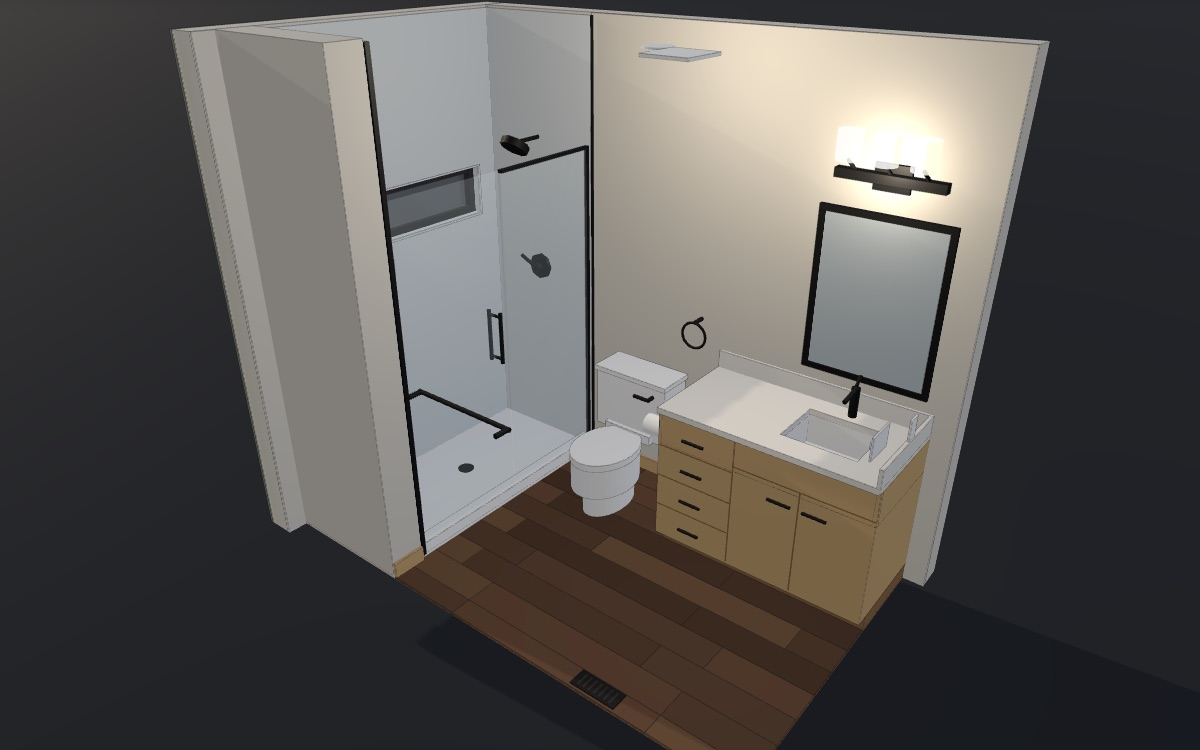
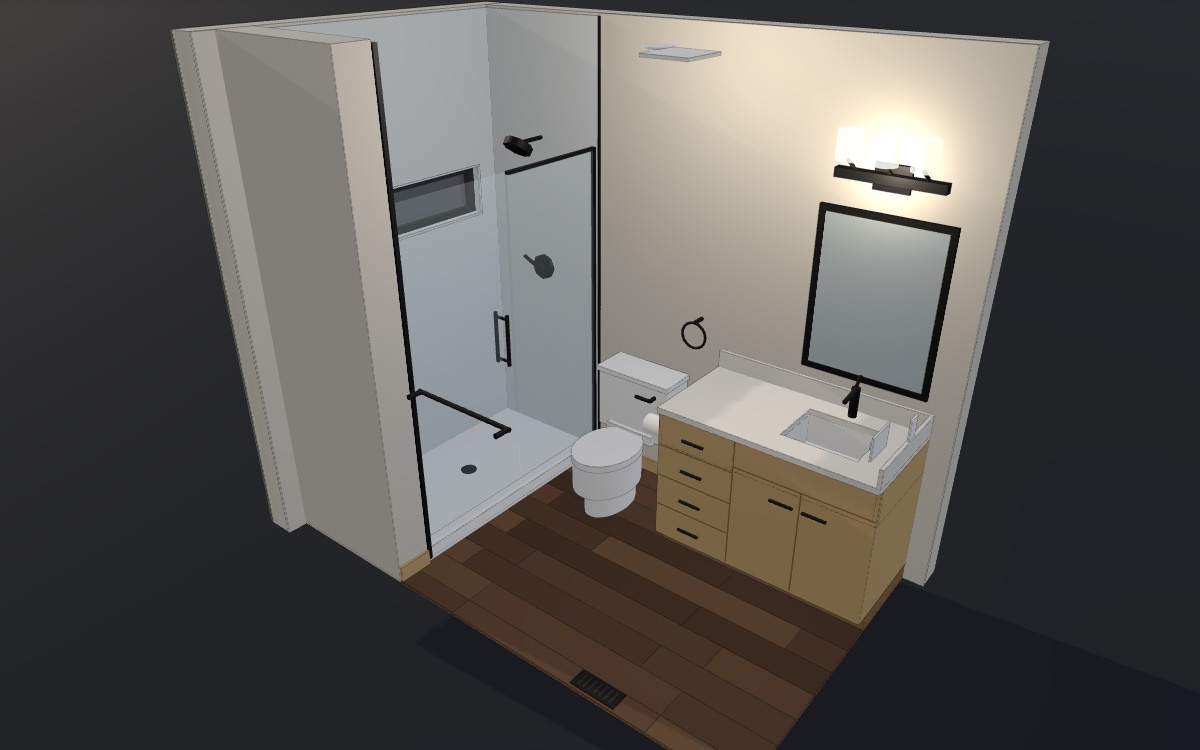
feat: guest bath -- 32in glass-to-tile, sink-position and stub-wall options

diff --git a/guest-bath.html b/guest-bath.html
@@ -65,9 +65,11 @@
     + basis-of-design fixture schedule. The lower-floor <b>GUEST BATH</b> on the east (gridline A) wall between the guest-room-1
     closets (south) and the kitchen (north), entered from the hall: 5'-7 3/4" x 9'-8 1/2" clear under a flat 9'-0" ceiling. The
     plumbing wall is centered on gridline 2; a 60 1/2" alcove is formed by an 8 1/2" chase at the kitchen end, with a 4'-0" x 1'-0"
-    window (C) at 5'-0" in its east wall. <b>Owner changes 2026-09-10:</b> a tiled <b>shower with a frameless glass door</b> (60" x 32" pan,
+    window (C) at 5'-0" in its east wall. <b>Owner changes 2026-09-10:</b> a tiled <b>shower with a frameless glass door</b> (60" x 34" pan, <b>32" from the glass to the back tile</b>,
     tile to the ceiling, like the upstairs bath) replaces A02's tub; the single-sink vanity in the hall-wall corner grows to <b>48"</b>
-    (A02: 42 1/2"); every fixture and accessory is <b>matte black</b>. The toilet is re-centered in what is left -- 18 1/2" to the vanity
+    (A02: 42 1/2"); every fixture and accessory is <b>matte black</b>. Two radios compare owner options (2026-09-10): <b>Sink</b> over the 30"
+    base as drawn or centered on the 48"; <b>End wall</b> with A02's 8 1/2" chase (it only existed to fit a 60" insert) or none, which makes a
+    full-width 66 1/2" tiled shower with custom glass. The toilet is re-centered in what is left -- 18" to the vanity
     and 18" to the glass (code minimum 15", 18" recommended); 40" in front of it, 43" between the vanity and the kitchen wall. Door 6
     (30", LH in-swing) is hinged at the kitchen wall. Walls and openings follow the A02 dim chains; device and light positions are scaled
     from E01 / M01 (&plusmn;1", M01 &plusmn;3"). <b>Orange = not on record or the sheets disagree:</b> S3.2 puts the hall-wall header (a door)
@@ -102,7 +104,7 @@
       <label><input type="checkbox" data-layer="wallW"> Hall wall + door</label>
       <label><input type="checkbox" data-layer="ceiling"> Ceiling</label>
       <label><input type="checkbox" data-layer="floor" checked> LVP floor</label>
-      <label><input type="checkbox" data-layer="tub" checked> Shower + chase</label>
+      <label><input type="checkbox" data-layer="tub" checked> Shower</label>
       <label><input type="checkbox" data-layer="glass" checked> Shower glass</label>
       <label><input type="checkbox" data-layer="tile" checked> Shower tile</label>
       <label><input type="checkbox" data-layer="vanity" checked> Vanity + mirror</label>
@@ -113,6 +115,16 @@
       <label><input type="checkbox" data-layer="label"> Labels</label>
       <label><input type="checkbox" data-layer="dim"> Dimensions</label>
       <label><input type="checkbox" data-layer="caption"> Caption</label>
+    </div>
+    <div class="row fold" id="variants">
+      <span class="lbl">Sink</span>
+      <label><input type="radio" name="sink" data-layer="sinkBase" checked> Over the 30" sink base, 15" off the hall wall (as drawn)</label>
+      <label><input type="radio" name="sink" data-layer="sinkCenter"> Centered on the 48" vanity (owner option)</label>
+    </div>
+    <div class="row fold" id="variants2">
+      <span class="lbl">End wall</span>
+      <label><input type="radio" name="chase" data-layer="chaseOn" checked> 8 1/2" chase per A02, sized for a 60" insert</label>
+      <label><input type="radio" name="chase" data-layer="chaseOff"> No chase: full-width tiled shower, custom glass (owner option)</label>
     </div>
     <div class="row" id="views">
       <span class="lbl">View</span>
@@ -1572,8 +1584,8 @@ const D = {
   HW_OUT: 29.0, HW_S1: 29.5, HW_S2: 33.0, HW_IN: 33.5,
   // kitchen partition (north): bath gyp / studs / kitchen gyp
   KP_IN: 71.0, KP_S1: 71.5, KP_S2: 75.0, KP_OUT: 75.5,
-  // chase at the alcove's north end: framing face (chain 255.75 - 192.5) and its return plane (moved from A02's 120 to 118.5 for a 32" pan)
-  CH_X1: 63.25, CH_Z: 118.5,
+  // chase at the alcove's north end: framing face (chain 255.75 - 192.5) and its return plane (moved from A02's 120 to 116.5 for a 34" pan)
+  CH_X1: 63.25, CH_Z: 116.5,
   // east wall (gridline A): gyp / studs / sheathing / siding
   EW_IN: 150.0, EW_S1: 150.5, EW_S2: 156.0, SHEATH: 156.5, SIDING: 157.25,
   // levels
@@ -1581,16 +1593,17 @@ const D = {
   // openings (door 6 per the A02 chain; window C RO 4'-0 1/2" x 1'-0 1/2", A04's 3'-0 1/2" rough width flagged)
   DOOR_X1: 39.0, DOOR_X2: 69.5, DOOR_HEAD: 84.5, DOOR_W: 30, DOOR_T: 1.375,
   WIN_X1: 8.75, WIN_X2: 57.25, WIN_SILL: 59.75, WIN_HEAD: 72.25,
-  // shower (owner 2026-09-10, replaces the A02 tub): 60" x 32" alcove pan in the 60 1/2" alcove, frameless glass on the threshold,
-  // shower-only trim on the plumbing wall centered on the pan
-  SH_X1: 3.0, SH_X2: 63.0, SH_Z1: 118.5, SH_Z2: 150.5, PAN_T: 1.5, CURB_W: 3.0, GLASS_Z: 119.5, GLASS_H: 80, DOOR_G_X: 32.375,
-  TRIM_Z: 134.5, VALVE_Y: 48, ARM_Y: 80,
+  // shower (owner 2026-09-10, replaces the A02 tub): 60" x 34" alcove pan in the 60 1/2" alcove, frameless glass on the threshold
+  // 32" from the back tile (owner: 32", not 30"), shower-only trim on the plumbing wall centered on the pan
+  SH_X1: 3.0, SH_X2: 63.0, SH_Z1: 116.5, SH_Z2: 150.5, PAN_T: 1.5, CURB_W: 3.0, GLASS_Z: 117.5, GLASS_H: 80,
+  DOOR_G_X: 32.375, DOOR_G_X2: 40.375,   // glass door / fixed-panel split: with the chase (door hinged on the chase) / without (door hinged on the panel)
+  TRIM_Z: 133.5, VALVE_Y: 48, ARM_Y: 80,
   // vanity in the plumbing-wall / hall-wall corner: 24 3/4" deep counter, 48" long (owner 2026-09-10; A02 drew 42 1/2"), faces north
   VAN_X1: 3.25, VAN_X2: 27.0, CTR_X2: 28.0, VAN_Z1: 33.5, VAN_Z2: 81.5, CTR_Y: 34.75, CTR_T: 1.25,
   SINK_XC: 15.5, SINK_ZC: 48.5, SINK_L: 13, SINK_W: 16, FAUCET_X: 6.5,
-  MIR_Z1: 36.5, MIR_Z2: 60.5, MIR_Y1: 44, MIR_Y2: 76, BAR_ZC: 48.5, BAR_L: 20.9,
-  // toilet centerline: re-centered between the 48" vanity and the shower glass (18 1/2" / 18"); A02 drew it at 104
-  WC_Z: 100,
+  MIR_HW: 12, MIR_Y1: 44, MIR_Y2: 76, BAR_L: 20.9,   // 24" x 32" mirror and the Bellevue bar follow the sink (Sink radio: z 48.5 over the base, 57.5 centered)
+  // toilet centerline: re-centered between the 48" vanity end (81.5) and the shower glass (117.5) -- 18" each side; A02 drew it at 104
+  WC_Z: 99.5,
   // devices: E01 can + GFCI + 3-gang, M01 fan + floor register
   CAN: [37.2, 77.4], FAN: [42.0, 70.0], SWITCH_X: 32.5, GFCI_X: 15.5, REG: [66.5, 70.5, 60, 70],
   // finishes + framing rules
@@ -1799,6 +1812,9 @@ function prismXZ(pts, y1, y2, mat, layer, holes = [], edges = true) {
   if (edges) addEdges(m, g, mat.transparent);
   return reg(m, layer);
 }
+// Variant helpers: a part tagged with a radio's data-layer is shown only while that radio is selected (main-bath pattern).
+const tagV = (o, v) => { o.userData.variant = v; return o; };
+const tagNew = (v, fn) => { const n = parts.length; fn(); for (let i = n; i < parts.length; i++) tagV(parts[i], v); };
 // Interior lighting: sun low in the east so it comes in through window C; a little more ambient than the template.
 sun.position.set(60, 240, 760);
 scene.add(new THREE.AmbientLight(0xffffff, 0.35));
@@ -1838,7 +1854,7 @@ const winHole = rect(D.WIN_X1, D.WIN_SILL, D.WIN_X2, D.WIN_HEAD);
 
 // ---- kitchen partition (north) and the tub chase at the alcove's north end ------------------------------------------------
 box(D.KP_IN, D.KP_OUT, 0, TOP, D.HW_OUT, D.EW_S1, M.gyp, 'wallN');
-box(D.CH_X1, D.KP_IN, 0, TOP, D.CH_Z, D.EW_S1, M.gyp, 'tub');                     // chase block: 8 1/4" framing + gyp return at the pan's front edge
+tagNew('chaseOn', () => box(D.CH_X1, D.KP_IN, 0, TOP, D.CH_Z, D.EW_S1, M.gyp, 'tub'));   // chase block: 8 1/4" framing + gyp return at the pan's front edge (End wall radio)
 
 // ---- east wall (gridline A) with window C: 4'-0" x 1'-0" at 5'-0", tiled returns inside the surround -----------------------
 {
@@ -1886,85 +1902,107 @@ box(D.PW_IN, D.KP_IN, D.CEIL, D.CEIL + D.GYP_T, D.HW_IN, D.EW_IN, M.gyp, 'ceilin
   box(D.PW_IN, D.PW_IN + t, y1, y2, D.VAN_Z2, D.CH_Z, M.alder, 'wallS');                       // plumbing wall, vanity end to the tub
   box(D.CTR_X2, D.DOOR_X1 - 2.5, y1, y2, D.HW_IN, D.HW_IN + t, M.alder, 'wallW');               // hall wall, counter to the door casing
   box(D.KP_IN - t, D.KP_IN, y1, y2, D.HW_IN, D.CH_Z, M.alder, 'wallN');                        // kitchen wall up to the chase
-  box(D.CH_X1, D.KP_IN, y1, y2, D.CH_Z - t, D.CH_Z, M.alder, 'tub');                          // chase return
+  tagNew('chaseOn', () => box(D.CH_X1, D.KP_IN, y1, y2, D.CH_Z - t, D.CH_Z, M.alder, 'tub'));   // chase return
 }
 
 // ---- shower (owner 2026-09-10: tiled shower with a glass door instead of the A02 tub, like the upstairs bath) -----------------
-//      60" x 32" alcove pan, tile pan to ceiling on three walls, frameless glass: fixed panel at the valve end, 30" door hinged on the chase
+//      End wall radio: A02's 8 1/2" chase kept (sized for a 60" insert: 60 x 32 pan, door hinged on the chase) or no chase (owner
+//      option: full-width tiled floor + curb, custom frameless glass wall to wall, door hinged on the fixed panel)
 {
-  const L = 'tub', x1 = D.SH_X1, x2 = D.SH_X2, z1 = D.SH_Z1, z2 = D.SH_Z2, tt = D.TILE_T;
-  box(x1, x2, 0, D.PAN_T, z1, z2, M.white, L);                                          // pan (model not chosen; 60 x 32 alcove base)
-  box(x1, x2, 0, 4, z1, z1 + D.CURB_W, M.white, L);                                     // threshold along the glass line
-  cyl((x1 + x2) / 2, (z1 + D.CURB_W + z2) / 2, D.PAN_T, D.PAN_T + 0.2, 2, M.black, L);   // drain
+  const L = 'tub', T = 'tile', G = 'glass', tt = D.TILE_T, z1 = D.SH_Z1, z2 = D.SH_Z2, ez = D.EW_S1 - tt, yb = D.PAN_T;
+  const xf = D.PW_N + tt, gz = D.GLASS_Z, gh = D.GLASS_H, zc = D.TRIM_Z;
   // shower-only trim on the plumbing-wall tile face, centered on the pan (the BoD UT2313EP is a tub/shower kit -- superseded)
-  const xf = D.PW_N + tt, zc = D.TRIM_Z;
   bar(V(xf, D.VALVE_Y, zc), V(xf + 1.0, D.VALVE_Y, zc), 3.2, M.black, L);              // escutcheon
   bar(V(xf + 1.0, D.VALVE_Y, zc), V(xf + 2.2, D.VALVE_Y, zc), 0.9, M.black, L);
   bar(V(xf + 2.2, D.VALVE_Y, zc), V(xf + 2.6, D.VALVE_Y + 2.5, zc + 4.5), 0.45, M.black, L);   // lever
   bar(V(xf, D.ARM_Y, zc), V(xf + 7.5, D.ARM_Y, zc), 0.5, M.black, L);                  // shower arm
   bar(V(xf + 7.5, D.ARM_Y, zc), V(xf + 8.6, D.ARM_Y - 1.4, zc), 3.4, M.black, L);      // head
-  // 0931 tile, three alcove walls, pan lip to the ceiling, black edge trim on the leading edges
-  const T = 'tile', ez = D.EW_S1 - tt, yb = D.PAN_T;
-  box(D.PW_N, D.PW_N + tt, yb, D.CEIL, z1, ez, M.tile, T);                              // plumbing-wall end
-  box(D.CH_X1 - tt, D.CH_X1, yb, D.CEIL, z1, ez, M.tile, T);                            // chase end
-  prism(rect(D.PW_N, yb, D.CH_X1, D.CEIL), ez, D.EW_S1, M.tile, T, [winHole]);        // east wall, around window C
-  box(D.PW_N, D.PW_N + tt + 0.1, yb, D.CEIL, z1 - 0.5, z1, M.black, T, false);         // edge trim
-  box(D.CH_X1 - tt - 0.1, D.CH_X1, yb, D.CEIL, z1 - 0.5, z1, M.black, T, false);
-  // frameless 3/8" glass on the threshold: fixed panel from the valve wall to x = 32 3/8", door hinged on the chase, matte black hardware
-  const G = 'glass', gz = D.GLASS_Z, gx1 = xf + 0.6, gs = D.DOOR_G_X, gx2 = D.CH_X1 - tt - 0.4, gh = D.GLASS_H;
-  box(gx1, gs - 0.3, 4, gh, gz - 0.19, gz + 0.19, M.glass, G, false);                   // fixed panel
-  box(gs + 0.3, gx2, 4, gh, gz - 0.19, gz + 0.19, M.glass, G, false);                   // door, drawn closed (swings out, toward the room)
-  box(xf, xf + 0.6, 4, gh, gz - 0.5, gz + 0.5, M.black, G);                             // wall channel at the valve wall
-  box(gx1, gs - 0.3, gh - 0.6, gh, gz - 0.5, gz + 0.5, M.black, G);                     // header bar on the fixed panel
-  for (const y of [14, 66]) box(gx2, D.CH_X1 - tt, y, y + 3.5, gz - 1.1, gz + 1.1, M.black, G);   // hinges on the chase
-  for (const sz of [-1, 1]) {                                                            // pull, both faces, at the door's free edge
-    bar(V(gs + 3.5, 38, gz + sz * 1.7), V(gs + 3.5, 50, gz + sz * 1.7), 0.45, M.black, G);
-    for (const y of [39, 49]) bar(V(gs + 3.5, y, gz), V(gs + 3.5, y, gz + sz * 1.7), 0.35, M.black, G);
-  }
+  box(D.PW_N, D.PW_N + tt, yb, D.CEIL, z1, ez, M.tile, T);                              // 0931 tile: plumbing-wall end, pan to ceiling
+  box(D.PW_N, D.PW_N + tt + 0.1, yb, D.CEIL, z1 - 0.5, z1, M.black, T, false);         // black edge trim
+  box(xf, xf + 0.6, 4, gh, gz - 0.5, gz + 0.5, M.black, G);                             // glass wall channel at the valve wall
+  const pull = xp => { for (const sz of [-1, 1]) { bar(V(xp, 38, gz + sz * 1.7), V(xp, 50, gz + sz * 1.7), 0.45, M.black, G); for (const y of [39, 49]) bar(V(xp, y, gz), V(xp, y, gz + sz * 1.7), 0.35, M.black, G); } };
+  const panel = (ga, gb) => { box(ga, gb, 4, gh, gz - 0.19, gz + 0.19, M.glass, G, false); box(ga, gb, gh - 0.6, gh, gz - 0.5, gz + 0.5, M.black, G); };   // fixed panel + header bar
+  tagNew('chaseOn', () => {                                                              // A02 chase: 60 x 32 alcove pan, door hinged on the chase
+    const x1 = D.SH_X1, x2 = D.SH_X2, xe = D.CH_X1, gs = D.DOOR_G_X, gx2 = xe - tt - 0.4;
+    box(x1, x2, 0, yb, z1, z2, M.white, L);                                             // pan (model not chosen; 60 x 32 alcove base)
+    box(x1, x2, 0, 4, z1, z1 + D.CURB_W, M.white, L);                                   // threshold along the glass line
+    cyl((x1 + x2) / 2, (z1 + D.CURB_W + z2) / 2, yb, yb + 0.2, 2, M.black, L);         // drain
+    box(xe - tt, xe, yb, D.CEIL, z1, ez, M.tile, T);                                    // chase-end tile
+    prism(rect(D.PW_N, yb, xe, D.CEIL), ez, D.EW_S1, M.tile, T, [winHole]);            // east wall tile around window C
+    box(xe - tt - 0.1, xe, yb, D.CEIL, z1 - 0.5, z1, M.black, T, false);
+    panel(xf + 0.6, gs - 0.3);
+    box(gs + 0.3, gx2, 4, gh, gz - 0.19, gz + 0.19, M.glass, G, false);                 // 30" door, drawn closed, swings out
+    for (const y of [14, 66]) box(gx2, xe - tt, y, y + 3.5, gz - 1.1, gz + 1.1, M.black, G);   // wall hinges on the chase
+    pull(gs + 3.5);
+  });
+  tagNew('chaseOff', () => {                                                             // no chase: tiled floor + curb wall to wall, door hinged on the panel
+    const x1 = xf, x2 = D.KP_IN - tt, gs = D.DOOR_G_X2, gx2 = x2 - 0.4;
+    box(x1, x2, 0, yb, z1, z2, M.tile, L);                                              // tiled floor (mud-set, sloped to the drain in reality)
+    box(x1, x2, 0, 4.5, z1, z1 + 4, M.tile, L);                                         // tiled 4" curb
+    cyl((x1 + x2) / 2, (z1 + 4 + z2) / 2, yb, yb + 0.2, 2, M.black, L);                // drain
+    box(D.KP_IN - tt, D.KP_IN, yb, D.CEIL, z1, ez, M.tile, T);                          // kitchen-wall end tile
+    prism(rect(D.PW_N, yb, D.KP_IN, D.CEIL), ez, D.EW_S1, M.tile, T, [winHole]);       // east wall tile, full width
+    box(D.KP_IN - tt - 0.1, D.KP_IN, yb, D.CEIL, z1 - 0.5, z1, M.black, T, false);
+    panel(xf + 0.6, gs - 0.3);
+    box(gs + 0.3, gx2, 4, gh, gz - 0.19, gz + 0.19, M.glass, G, false);                 // 29 1/2" door, free edge at the kitchen wall
+    for (const y of [14, 66]) box(gs - 1.6, gs + 1.6, y, y + 3.5, gz - 1.1, gz + 1.1, M.black, G);   // glass-to-glass hinges
+    box(gx2, x2, 4, gh, gz - 0.5, gz + 0.5, M.black, G);                                // strike channel at the kitchen wall
+    pull(gx2 - 3.5);
+  });
 }
 
-// ---- vanity: single sink in the plumbing-wall / hall-wall corner, 48" x 24 3/4" (owner 2026-09-10; A02 42 1/2"), faces north; alder (BoD: TBD), quartz (assumed)
+// ---- vanity: single sink in the plumbing-wall / hall-wall corner, 48" x 24 3/4" (owner 2026-09-10; A02 42 1/2"), faces north -------
+//      Sink radio: over the 30" sink base (as drawn: 30" doors + 18" drawers) or centered on the 48" (12" drawers | 24" doors | 12" drawers);
+//      the mirror, Bellevue bar and faucet follow the sink. Alder (BoD: TBD) and quartz (assumed).
 {
   const L = 'vanity', x1 = D.VAN_X1, x2 = D.VAN_X2, z1 = D.VAN_Z1, z2 = D.VAN_Z2, cy = D.CTR_Y;
   box(x1, x2 - 3, 0, 4, z1, z2, M.alderDk, L);                                        // toe kick, recessed 3"
   box(x1, x2, 4, cy - 7.5, z1, z2, M.alder, L);                                       // carcass below the basin
   box(x2 - 0.75, x2, cy - 7.5, cy, z1, z2, M.alder, L);                               // front face
   for (const z of [z1, z2 - 0.75]) box(x1, x2, cy - 7.5, cy, z, z + 0.75, M.alder, L);   // end panels
-  box(x1, x2, cy - 7.5, cy, z1 + 30, z2, M.alder, L);                                 // drawer bank, solid
-  const gap = (ya, yb, za, zb) => box(x2 - 0.02, x2 + 0.06, ya, yb, za, zb, M.alderDk, L, false);
-  gap(4.5, cy - 0.5, z1 + 29.85, z1 + 30.15);                                         // 30" sink base | 18" drawer bank
-  gap(4.5, cy - 6.5, z1 + 15.1, z1 + 15.4);                                           // door pair split
-  gap(cy - 6.65, cy - 6.35, z1, z1 + 30);                                             // false front over the sink
-  for (const y of [11.75, 19.25, 26.75]) gap(y - 0.15, y + 0.15, z1 + 30.15, z2);    // four drawers
-  for (const zc of [z1 + 11.5, z1 + 19]) bar(V(x2 + 1.1, cy - 10, zc - 2.5), V(x2 + 1.1, cy - 10, zc + 2.5), 0.35, M.black, L);   // door pulls
-  const zm = (z1 + 30.15 + z2) / 2;
-  for (const y of [8.1, 15.5, 23, 30.4]) bar(V(x2 + 1.1, y, zm - 2.5), V(x2 + 1.1, y, zm + 2.5), 0.35, M.black, L);              // drawer pulls
-  const sx1 = D.SINK_XC - D.SINK_L / 2, sx2 = D.SINK_XC + D.SINK_L / 2, sz1 = D.SINK_ZC - D.SINK_W / 2, sz2 = D.SINK_ZC + D.SINK_W / 2;
-  prismXZ(rect(x1, z1, D.CTR_X2, z2), cy, cy + D.CTR_T, M.counter, L, [rect(sx1, sz1, sx2, sz2)]);   // counter with the sink cut-out
   box(x1, x1 + 0.75, cy + D.CTR_T, cy + D.CTR_T + 4, z1, z2, M.counter, L);          // 4" backsplash on the plumbing wall
   box(x1, D.CTR_X2, cy + D.CTR_T, cy + D.CTR_T + 4, z1, z1 + 0.75, M.counter, L);    // ... and on the hall-wall end
-  const yb = cy - 6.5;                                                                // undermount basin, 13" x 16" x 6 1/2" (size assumed)
-  box(sx1 - 0.6, sx1, yb, cy, sz1 - 0.6, sz2 + 0.6, M.white, L); box(sx2, sx2 + 0.6, yb, cy, sz1 - 0.6, sz2 + 0.6, M.white, L);
-  box(sx1, sx2, yb, cy, sz1 - 0.6, sz1, M.white, L); box(sx1, sx2, yb, cy, sz2, sz2 + 0.6, M.white, L);
-  box(sx1 - 0.6, sx2 + 0.6, yb - 0.6, yb, sz1 - 0.6, sz2 + 0.6, M.white, L);
-  cyl(D.SINK_XC, D.SINK_ZC, yb, yb + 0.15, 1.2, M.black, L);
-  const ft = cy + D.CTR_T, fx = D.FAUCET_X, fz = D.SINK_ZC;                           // Moen 6402, matte black, spout toward the basin
-  cyl(fx, fz, ft, ft + 6.5, 0.9, M.black, L);
-  bar(V(fx, ft + 6.2, fz), V(fx + 5.2, ft + 5.4, fz), 0.5, M.black, L);
-  bar(V(fx, ft + 6.9, fz), V(fx - 1.6, ft + 8.6, fz), 0.35, M.black, L);
-  box(x1 + 0.05, x1 + 0.75, D.MIR_Y1, D.MIR_Y2, D.MIR_Z1, D.MIR_Z2, M.mirror, L, false);   // 24" x 32" mirror (size assumed)
-  const f = 1.25;
-  box(x1, x1 + 1.0, D.MIR_Y1 - f, D.MIR_Y1, D.MIR_Z1 - f, D.MIR_Z2 + f, M.black, L); box(x1, x1 + 1.0, D.MIR_Y2, D.MIR_Y2 + f, D.MIR_Z1 - f, D.MIR_Z2 + f, M.black, L);
-  box(x1, x1 + 1.0, D.MIR_Y1, D.MIR_Y2, D.MIR_Z1 - f, D.MIR_Z1, M.black, L); box(x1, x1 + 1.0, D.MIR_Y1, D.MIR_Y2, D.MIR_Z2, D.MIR_Z2 + f, M.black, L);
-  // Bellevue EGBF23259 20.9" bar over the mirror (BoD row 45, Guest Bath) -- E01 draws one wall fixture here (circuit 2)
-  const by = D.MIR_Y2 + 8, zc = D.BAR_ZC, hl = D.BAR_L / 2;
-  box(x1, x1 + 0.75, by - 2.5, by + 2.5, zc - 3.5, zc + 3.5, M.black, L);
-  box(x1 + 0.75, x1 + 2.6, by - 0.9, by + 0.9, zc - hl, zc + hl, M.black, L);
-  for (const dzs of [-6.9, 0, 6.9]) {                                                 // three shades (count not on record)
-    bar(V(x1 + 1.7, by + 0.9, zc + dzs), V(x1 + 5.2, by + 3.2, zc + dzs), 0.35, M.black, L);
-    cyl(x1 + 5.5, zc + dzs, by + 3.2, by + 8.7, 2.3, M.shade, L);
-  }
-  const vl = new THREE.PointLight(0xfff0d8, 700, 0, 2); vl.position.set(x1 + 10, by + 2, zc); scene.add(vl);
+  const gap = (ya, yb, za, zb) => box(x2 - 0.02, x2 + 0.06, ya, yb, za, zb, M.alderDk, L, false);
+  const hpull = (y, zc) => bar(V(x2 + 1.1, y, zc - 2.5), V(x2 + 1.1, y, zc + 2.5), 0.35, M.black, L);
+  const drawers = (za, zb) => {                                                       // a bank of four drawers, solid behind
+    box(x1, x2, cy - 7.5, cy, za, zb, M.alder, L);
+    for (const y of [11.75, 19.25, 26.75]) gap(y - 0.15, y + 0.15, za, zb);
+    for (const y of [8.1, 15.5, 23, 30.4]) hpull(y, (za + zb) / 2);
+  };
+  const doors = (za, zb) => {                                                         // door pair under the sink with a false front
+    const zm = (za + zb) / 2;
+    gap(4.5, cy - 6.5, zm - 0.15, zm + 0.15); gap(cy - 6.65, cy - 6.35, za, zb);
+    hpull(cy - 10, zm - 3.5); hpull(cy - 10, zm + 3.5);
+  };
+  const sink = zc => {                                                                // counter with the cut-out, basin, faucet, mirror, light bar
+    const sx1 = D.SINK_XC - D.SINK_L / 2, sx2 = D.SINK_XC + D.SINK_L / 2, sz1 = zc - D.SINK_W / 2, sz2 = zc + D.SINK_W / 2, yb = cy - 6.5;
+    prismXZ(rect(x1, z1, D.CTR_X2, z2), cy, cy + D.CTR_T, M.counter, L, [rect(sx1, sz1, sx2, sz2)]);
+    box(sx1 - 0.6, sx1, yb, cy, sz1 - 0.6, sz2 + 0.6, M.white, L); box(sx2, sx2 + 0.6, yb, cy, sz1 - 0.6, sz2 + 0.6, M.white, L);
+    box(sx1, sx2, yb, cy, sz1 - 0.6, sz1, M.white, L); box(sx1, sx2, yb, cy, sz2, sz2 + 0.6, M.white, L);
+    box(sx1 - 0.6, sx2 + 0.6, yb - 0.6, yb, sz1 - 0.6, sz2 + 0.6, M.white, L);
+    cyl(D.SINK_XC, zc, yb, yb + 0.15, 1.2, M.black, L);
+    const ft = cy + D.CTR_T, fx = D.FAUCET_X;                                          // Moen 6402, matte black, spout toward the basin
+    cyl(fx, zc, ft, ft + 6.5, 0.9, M.black, L);
+    bar(V(fx, ft + 6.2, zc), V(fx + 5.2, ft + 5.4, zc), 0.5, M.black, L);
+    bar(V(fx, ft + 6.9, zc), V(fx - 1.6, ft + 8.6, zc), 0.35, M.black, L);
+    const m1 = zc - D.MIR_HW, m2 = zc + D.MIR_HW, f = 1.25;                            // 24" x 32" mirror, black frame (size assumed)
+    box(x1 + 0.05, x1 + 0.75, D.MIR_Y1, D.MIR_Y2, m1, m2, M.mirror, L, false);
+    box(x1, x1 + 1.0, D.MIR_Y1 - f, D.MIR_Y1, m1 - f, m2 + f, M.black, L); box(x1, x1 + 1.0, D.MIR_Y2, D.MIR_Y2 + f, m1 - f, m2 + f, M.black, L);
+    box(x1, x1 + 1.0, D.MIR_Y1, D.MIR_Y2, m1 - f, m1, M.black, L); box(x1, x1 + 1.0, D.MIR_Y1, D.MIR_Y2, m2, m2 + f, M.black, L);
+    const by = D.MIR_Y2 + 8, hl = D.BAR_L / 2;                                          // Bellevue EGBF23259 20.9" bar (BoD row 45); E01 circuit 2
+    box(x1, x1 + 0.75, by - 2.5, by + 2.5, zc - 3.5, zc + 3.5, M.black, L);
+    box(x1 + 0.75, x1 + 2.6, by - 0.9, by + 0.9, zc - hl, zc + hl, M.black, L);
+    for (const dzs of [-6.9, 0, 6.9]) {                                                 // three shades (count not on record)
+      bar(V(x1 + 1.7, by + 0.9, zc + dzs), V(x1 + 5.2, by + 3.2, zc + dzs), 0.35, M.black, L);
+      cyl(x1 + 5.5, zc + dzs, by + 3.2, by + 8.7, 2.3, M.shade, L);
+    }
+    const vl = new THREE.PointLight(0xfff0d8, 700, 0, 2); vl.position.set(x1 + 10, by + 2, zc); reg(vl, L);
+  };
+  tagNew('sinkBase', () => { gap(4.5, cy - 0.5, z1 + 29.85, z1 + 30.15); doors(z1, z1 + 30); drawers(z1 + 30.15, z2); sink(D.SINK_ZC); });
+  tagNew('sinkCenter', () => {
+    gap(4.5, cy - 0.5, z1 + 11.85, z1 + 12.15); gap(4.5, cy - 0.5, z2 - 12.15, z2 - 11.85);
+    drawers(z1, z1 + 11.85); doors(z1 + 12.15, z2 - 12.15); drawers(z2 - 11.85, z2); sink((z1 + z2) / 2);
+  });
 }
 
 // ---- toilet (American Standard, model not named; elongated) on the plumbing wall, centerline z = 104 -------------------------
@@ -2057,11 +2095,11 @@ box(D.PW_IN, D.KP_IN, D.CEIL, D.CEIL + D.GYP_T, D.HW_IN, D.EW_IN, M.gyp, 'ceilin
     for (let x = w1 + 7; x < w2 - 1; x += 16) studX(x, z1, z2, 1.5, D.WIN_SILL - 1.5);
     for (let x = w1 + 7; x < w2 - 1; x += 16) studX(x, z1, z2, D.WIN_HEAD + 7.25, yt - 3);
   }
-  {                                                                                   // tub chase: 2x8 blocking assumed (8 1/4" is not a stock wall)
+  tagNew('chaseOn', () => {                                                           // chase: 2x8 blocking assumed (8 1/4" is not a stock wall)
     const x1 = D.CH_X1 + 0.5, x2 = D.KP_S1;
     box(x1, x2, 0, 1.5, D.CH_Z, D.EW_S1, F, L); box(x1, x2, yt - 1.5, yt, D.CH_Z, D.EW_S1, F, L);
     for (const z of [D.CH_Z + 0.75, D.TRIM_Z, D.EW_S1 - 0.75]) studZ(z, x1, x2, 1.5, yt - 1.5);
-  }
+  });
   // upper floor: 2X12 DF#2 @ 16" o.c. east-west from gridline B to the east wall, drag joist over the kitchen wall, rim, subfloor (S3.2)
   for (let x = D.JOIST_X0; x < D.KP_OUT + 4; x += D.JOIST_OC) box(x - 0.75, x + 0.75, D.JOIST_Y1, D.JOIST_Y1 + D.JOIST_D, 0, D.EW_S1 + 4, F, L);
   box(D.DRAG_X - 0.75, D.DRAG_X + 0.75, D.JOIST_Y1, D.JOIST_Y1 + D.JOIST_D, 0, D.EW_S1 + 4, F, L);
@@ -2092,13 +2130,17 @@ label('GUEST BATH  5\'-7 3/4" x 9\'-8 1/2" clear, 9\'-0" ceiling\nplumbing wall 
 label('Door 6  30" x 84"  LH in-swing, hinged at the kitchen wall\nAgeless Iron Loch, OPCI', 54, 92, 34);
 label('S3.2 puts this wall\'s header (a door) at the plumbing-wall corner, 34" south of A02\'s door 6\nDrawn per A02 -- coordinate with Armstrong / Pieruccioni before the hall wall is framed', 40, 100, 31, FLAG);
 label('Window C  4\'-0" x 1\'-0", sill 5\'-0" (A03, A04 type C, section 4)\nA04 schedule lists its rough width as 3\'-0 1/2" -- drawn 4\'-0 1/2"; returns tiled', 33, 84, 148, FLAG);
-label('Shower 60" x 32" alcove pan (owner 2026-09-10: shower with tile + glass door instead of the A02 tub)\ninterior 58 3/4" x 30" to the glass; pan model not chosen', 33, 26, 133);
+tagNew('chaseOn', () => label('Shower 60" x 34" alcove pan in the A02 chase (owner 2026-09-10: tile + glass door instead of the tub)\ninterior 58 3/4" x 32" to the glass (owner: 32"); pan model not chosen. End wall radio: chase / none', 33, 26, 133));
+tagNew('chaseOff', () => label('Full-width tiled shower, no chase (owner option 2026-09-10): 66 1/2" tile to tile x 32" to the glass\ntiled floor + 4" curb, custom frameless glass wall to wall -- the chase only existed to fit a 60" insert', 37, 26, 133));
 label('Shower-only trim, matte black -- the BoD UT2313EP is a tub/shower kit; pick the model (upstairs chose Moen UT3312)', 10, 90, 134.5, FLAG);
-label('Frameless glass: fixed panel at the valve end, 30" door hinged on the chase, swings out\n(a door at the valve end would sweep the toilet)', 33, 86, 118, NOTE);
+tagNew('chaseOn', () => label('Frameless glass: fixed panel at the valve end, 30" door hinged on the chase, swings out\n(a door at the valve end would sweep the toilet)', 33, 86, 118, NOTE));
+tagNew('chaseOff', () => label('Frameless glass wall to wall: 36 3/4" fixed panel at the valve end, 29 1/2" door on glass-to-glass hinges,\nswings out and closes against the kitchen wall (a valve-end door would sweep the toilet)', 37, 86, 118, NOTE));
 label('Tile 0931 (OPCI): pan to ceiling on three walls', 48, 100, 148, NOTE);
-label('Single-sink vanity 48" x 24 3/4" (owner 2026-09-10; A02 42 1/2"): 30" sink base + 18" drawers\ncabinet species TBD in the BoD (drawn alder), quartz + mirror size assumed', 16, 42, 58);
-label('Bellevue EGBF23259 20.9" bar (BoD row 45); E01 circuit 2', 8, 97, 48.5, NOTE);
-label('Toilet -- American Standard (model not named)\ncenterline re-centered at 18 1/2" to the vanity / 18" to the glass (A02 drew 16" to the tub)', 22, 34, 100, FLAG);
+tagNew('sinkBase', () => label('Single-sink vanity 48" x 24 3/4" (owner 2026-09-10; A02 42 1/2"): 30" sink base + 18" drawers, sink 15" off the hall wall\nSink radio: here or centered. Cabinet species TBD in the BoD (drawn alder), quartz + mirror size assumed', 16, 42, 58));
+tagNew('sinkCenter', () => label('Single-sink vanity 48" x 24 3/4", sink centered (owner option 2026-09-10): 12" drawers | 24" doors | 12" drawers\nmirror and light follow the sink; the E01 receptacle stays on the hall wall', 16, 42, 58));
+tagNew('sinkBase', () => label('Bellevue EGBF23259 20.9" bar (BoD row 45); E01 circuit 2', 8, 97, 48.5, NOTE));
+tagNew('sinkCenter', () => label('Bellevue EGBF23259 20.9" bar (BoD row 45); E01 circuit 2', 8, 97, 57.5, NOTE));
+label('Toilet -- American Standard (model not named)\ncenterline re-centered: 18" to the vanity end, 18" to the shower glass (A02 drew it 4 1/2" further toward the tub)', 22, 34, 99.5, FLAG);
 label('Recessed can (E01 ckt 2) and Broan 50 CFM fan (M01) land 9" apart\none moves ~6", or the fan becomes a fan/light', 40, 103, 74, FLAG);
 label('3-gang: vanity light / can / fan', D.SWITCH_X, 55, 36, NOTE);
 label('GFCI, ckt 32', D.GFCI_X, 48, 36, NOTE);
@@ -2111,12 +2153,16 @@ label('Flat gyp ceiling at 9\'-0" (section 4)', 37, 104, 56, NOTE);
 // ---- dimensions -------------------------------------------------------------------------------------------------------------------
 dim(V(D.PW_IN, 2, 112), V(D.KP_IN, 2, 112), '5\'-7 3/4" clear', V(0, 0, 0), V(0, 1, 0));
 dim(V(36, 2, D.HW_IN), V(36, 2, D.EW_IN), '9\'-8 1/2" clear', V(0, 0, 0), V(0, 1, 0));
-dim(V(D.PW_N, 100, 116), V(D.CH_X1, 100, 116), '60 1/2" stud to stud (FIELD VERIFY)', V(0, 0, 0), V(0, 1, 0));
-dim(V(0, 106, 114), V(D.CH_X1, 106, 114), '5\'-3 1/4" from gridline 2 (A02)', V(0, 0, 0), V(0, 1, 0));
-dim(V(D.CH_X1 + 2, 20, D.GLASS_Z), V(D.CH_X1 + 2, 20, D.EW_S1 - D.TILE_T), '30" glass to tile', V(0, 0, 0), V(0, 1, 0));
+tagNew('chaseOn', () => {
+  dim(V(D.PW_N, 100, 116), V(D.CH_X1, 100, 116), '60 1/2" stud to stud (FIELD VERIFY)', V(0, 0, 0), V(0, 1, 0));
+  dim(V(0, 106, 114), V(D.CH_X1, 106, 114), '5\'-3 1/4" from gridline 2 (A02)', V(0, 0, 0), V(0, 1, 0));
+});
+tagNew('chaseOff', () => dim(V(D.PW_IN, 100, 116), V(D.KP_IN, 100, 116), '67 3/4" wall to wall (66 1/2" tile to tile), no chase', V(0, 0, 0), V(0, 1, 0)));
+dim(V(20, 20, D.GLASS_Z), V(20, 20, D.EW_S1 - D.TILE_T), '32" glass to tile (owner)', V(0, 0, 0), V(0, 1, 0));
+tagNew('sinkCenter', () => dim(V(D.CTR_X2 + 3, 44, D.VAN_Z1), V(D.CTR_X2 + 3, 44, (D.VAN_Z1 + D.VAN_Z2) / 2), '24" to the sink', V(0, 0, 0), V(0, 1, 0)));
 dim(V(D.CTR_X2 + 3, 38, D.VAN_Z1), V(D.CTR_X2 + 3, 38, D.VAN_Z2), '48"', V(0, 0, 0), V(0, 1, 0));
 dim(V(D.VAN_X1, 38, D.VAN_Z2 + 3), V(D.CTR_X2, 38, D.VAN_Z2 + 3), '24 3/4"', V(0, 0, 0), V(0, 1, 0));
-dim(V(32, 8, D.VAN_Z2), V(32, 8, D.WC_Z), '18 1/2"', V(0, 0, 0), V(0, 1, 0));
+dim(V(32, 8, D.VAN_Z2), V(32, 8, D.WC_Z), '18"', V(0, 0, 0), V(0, 1, 0));
 dim(V(32, 8, D.WC_Z), V(32, 8, D.GLASS_Z), '18"', V(0, 0, 0), V(0, 1, 0));
 dim(V(D.CTR_X2, 14, 56), V(D.KP_IN, 14, 56), '43" vanity to kitchen wall', V(0, 0, 0), V(0, 1, 0));
 dim(V(D.PW_IN + 27.5, 14, D.WC_Z + 12), V(D.KP_IN, 14, D.WC_Z + 12), '40" in front of the toilet', V(0, 0, 0), V(0, 1, 0));
@@ -2129,7 +2175,7 @@ dim(V(0, 108, 40), V(0, 120, 40), '1\'-0" floor', V(0, 0, 0), V(0, 0, 1));
 // ===== END EDIT: GEOMETRY =====
 
 // --- UI wiring (do not rewrite; the layer/view names come from the HTML + VIEWS above) -----------
-const layerBoxes = [...document.querySelectorAll('#layers input[type=checkbox]')];
+const layerBoxes = [...document.querySelectorAll('#layers input, .row.fold input')];   // checkboxes + the Sink / End wall radios
 const hdr = document.getElementById('header');   // the caption panel; Show → Caption toggles it like a layer
 const foldN = document.getElementById('foldn');  // '12 of 17 on' next to the Show label while the rows are folded (phones)
 function applyLayers() {
@@ -2138,7 +2184,7 @@ function applyLayers() {
   const on = {};
   for (const cb of layerBoxes) on[cb.dataset.layer] = cb.checked;
   hdr.style.display = on.caption === false ? 'none' : '';
-  for (const p of parts) p.visible = on[p.userData.layer] !== false;
+  for (const p of parts) p.visible = on[p.userData.layer] !== false && (!p.userData.variant || on[p.userData.variant] !== false);
 }
 layerBoxes.forEach(cb => cb.addEventListener('change', applyLayers));
 

diff --git a/index.html b/index.html
@@ -175,18 +175,22 @@
       <div class="body">
         <h3><a href="guest-bath.html">Guest bath &mdash; lower floor interior</a></h3>
         <p>The downstairs bath between the guest-room closets and the kitchen, with the owner's changes of 2026-09-10: a tiled
-        shower with a frameless glass door (60" x 32" pan) in the 60 1/2" alcove where the permit set drew a tub, its 4'-0" x 1'-0"
-        window at 5'-0", a 48" single-sink vanity in the hall-wall corner, the toilet re-centered 18 1/2" from the vanity and 18"
-        from the glass, and matte-black fixtures throughout. Orange flags mark the structural sheet's door header landing 34"
-        from the architect's door, a window rough-width typo in the schedule, the fan and light drawn 9" apart, and the shower
-        trim still to be picked.</p>
-        <span class="meta">Updated 2026-09-10 &middot; 7 camera views &middot; arrow keys walk the room &middot; each wall, ceiling, floor, shower, glass, tile, vanity, fixtures, lights and framing are toggles</span>
+        shower with a frameless glass door, 32" from the glass to the back tile, where the permit set drew a tub; its 4'-0" x 1'-0"
+        window at 5'-0"; a 48" single-sink vanity in the hall-wall corner; the toilet re-centered with 18" to the vanity and 18" to
+        the glass; matte-black fixtures throughout. Two radios compare options: the sink over its 30" base or centered on the 48",
+        and the shower with the permit set's 8 1/2" stub wall (sized for a 60" insert) or without it as a full-width tiled shower with
+        custom glass. Orange flags mark the structural sheet's door header landing 34" from the architect's door, a window
+        rough-width typo in the schedule, the fan and light drawn 9" apart, and the shower trim still to be picked.</p>
+        <span class="meta">Updated 2026-09-10 &middot; 7 camera views &middot; arrow keys walk the room &middot; sink position and stub wall on radios &middot; each wall, ceiling, floor, shower, glass, tile, vanity, fixtures, lights and framing are toggles</span>
         <div class="chips">
           <a class="open" href="guest-bath.html">Open drawing</a>
           <a href="guest-bath.html?view=door">From the door</a>
           <a href="guest-bath.html?view=shower">Shower and window</a>
+          <a href="guest-bath.html?view=shower&amp;show=chaseOff">No stub wall</a>
           <a href="guest-bath.html?view=vanity">Vanity</a>
+          <a href="guest-bath.html?view=vanity&amp;show=sinkCenter">Sink centered</a>
           <a href="guest-bath.html?view=top&amp;show=dim,wallW,wallN">Plan with dimensions</a>
+          <a href="guest-bath.html?view=top&amp;show=dim,wallW,wallN,chaseOff,sinkCenter">Plan, both options</a>
           <a href="guest-bath.html?view=overview&amp;show=label">Annotated</a>
           <a href="guest-bath.html?view=framing&amp;show=framing,label&amp;hide=wallE,wallS,floor,tile,tub,vanity,fixtures,elec,context">Framing</a>
         </div>
